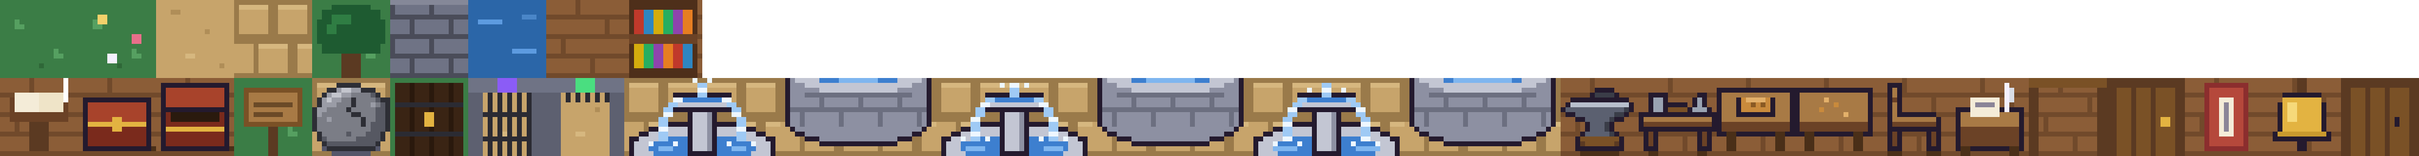
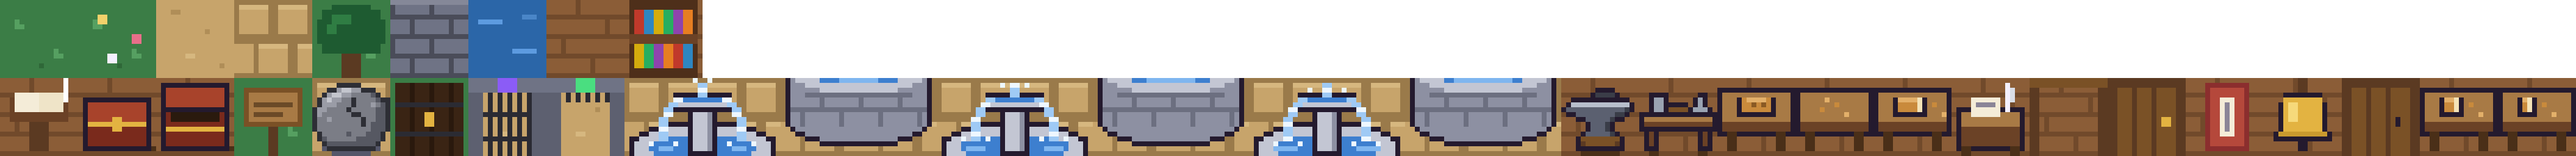
feat(art): draw the loaf as it's eaten, in place of the chair
Tile 33, the chair, becomes the loaf a quarter eaten; tiles 40 and 41 are
half a loaf and the heel. Each shows the pale cut end and a few crumbs.

diff --git a/app/src/game/sheets.ts b/app/src/game/sheets.ts
@@ -3,6 +3,6 @@ export const SHEETS = {
   dog: '/assets/dog.png?v=0be57c5f01',
   items: '/assets/items.png?v=384674e5ad',
   npcs: '/assets/npcs.png?v=0a14d991e9',
-  tiles: '/assets/tiles.png?v=64a483d826',
+  tiles: '/assets/tiles.png?v=3dfa149a16',
   splash: '/assets/splash.png?v=40d2470162',
 } as const
